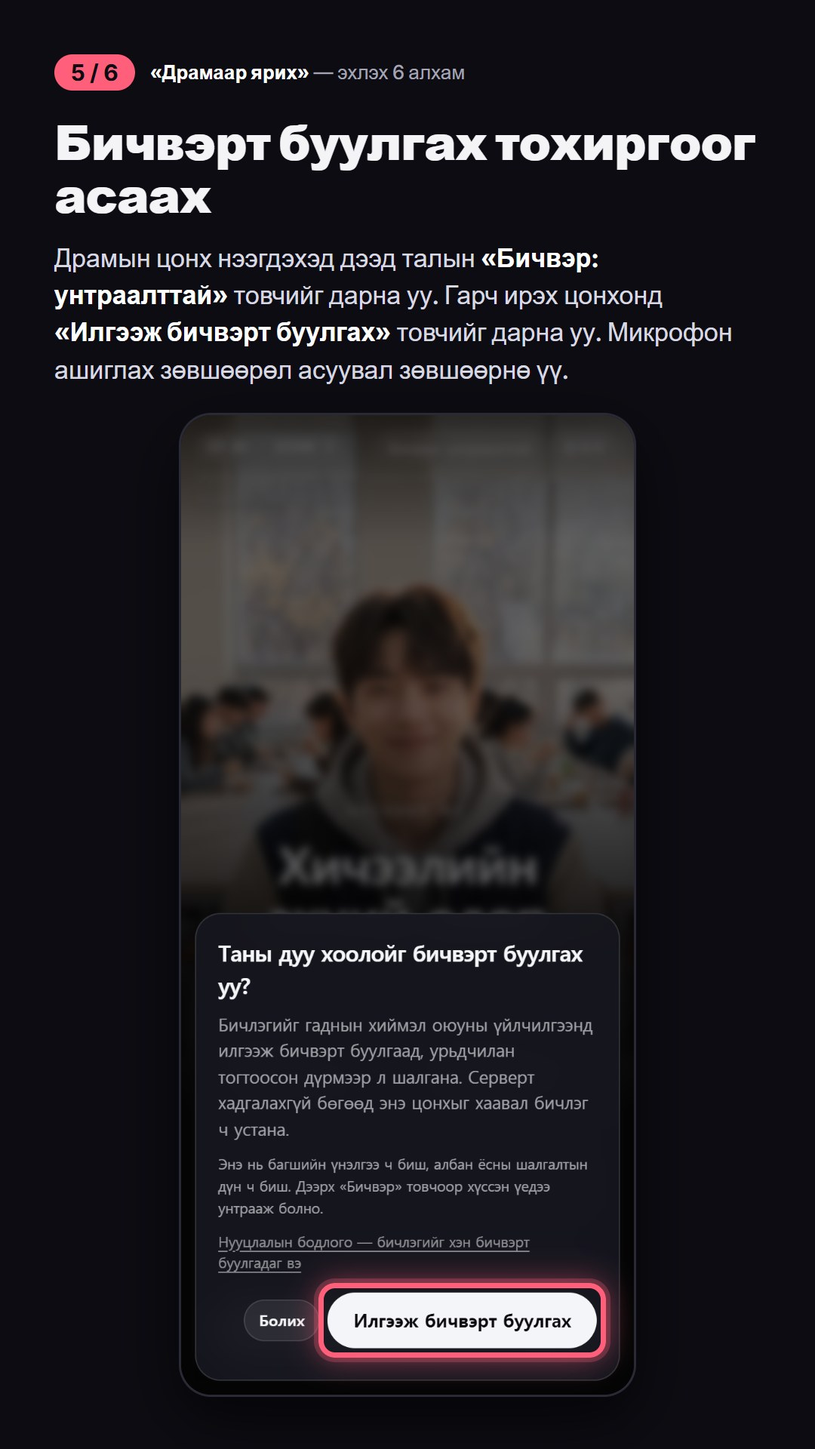
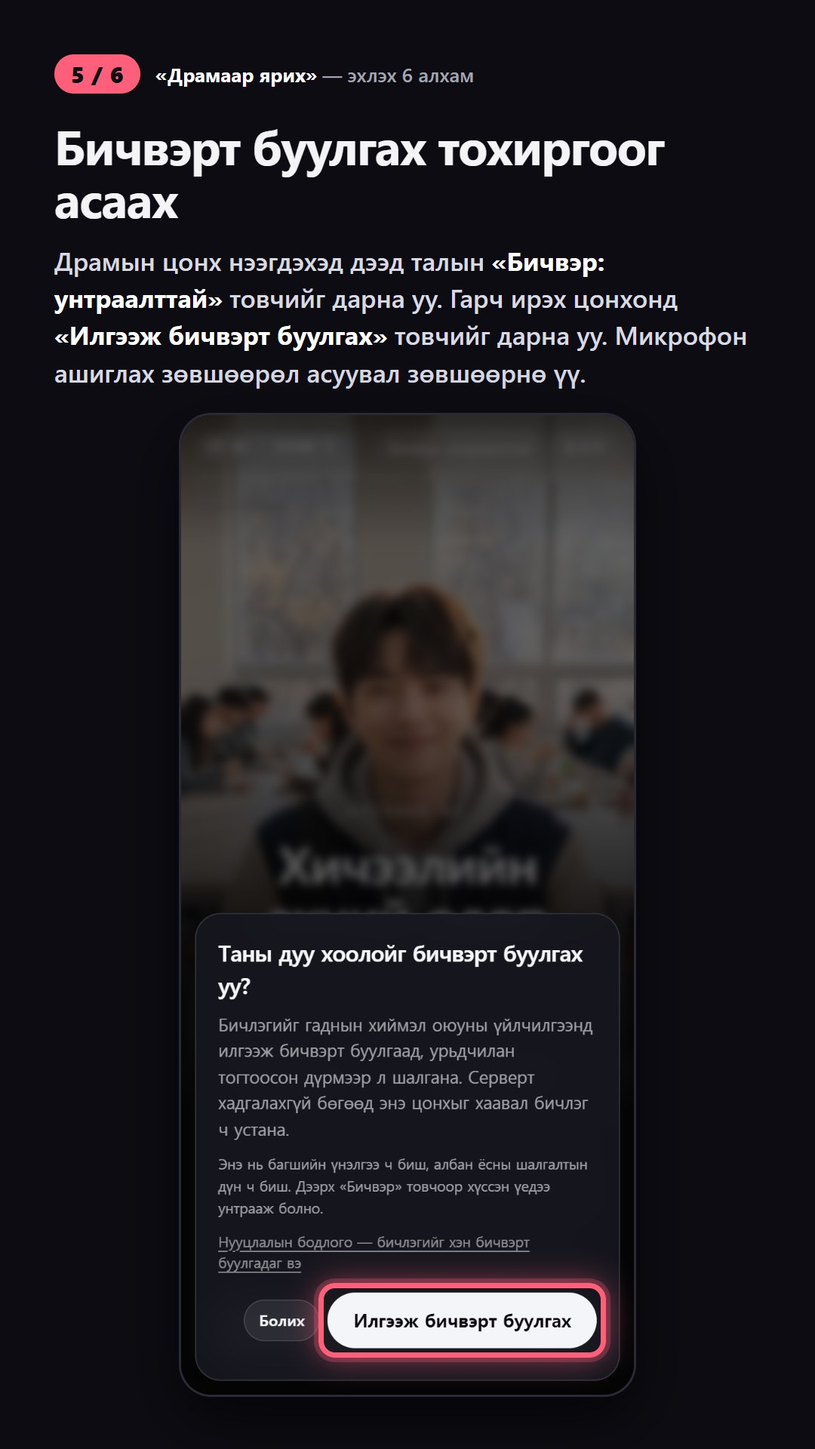
fix(드라마 말하기 · 몽골 시범 ⑥ 가입 안내 · ② 맞춤법 · 11-04): 공개본 · 리허설로 잰 실제 순서로 그림 여섯을 다시 씀 — 링크 ?drama=1&lang=mn(없으면 첫 화면 한국어), 튜터가 가입보다 먼저, 로그인 뒤 기록 옮기기 · 튜터 다시, 드라마 창이 저절로 열림, 보이는 단추 글 «Миний бүртгэл». 세 겹 확인 11판, 제목 글꼴 통일. 끄기 창 「Одоогоос」 재공개 synk-policy 47561faf(검수 drama-mn-spell-20261104 아르곤 0). 설계 §4 · §7 

Changed region(s): [[0.0611, 0.0312, 0.9167, 0.2812]]

diff --git a/docs/_ops/트랙.md b/docs/_ops/트랙.md
@@ -91,7 +91,7 @@ synk-town 운영은 11-01 실제 대조 v45 — 0555a4c7(싱크타운 첫 C4 후
 - **모두의창업 1R 기한 셋(10-22 사업 점검에서 §1로 모음, 유호님 손):** ① 10-25 AI 솔루션 취소 기한은 지나 MonoGPT Biz-Pro가 유지됐다(첫 로그인은 아래 「메일 전수조사」 줄). ② **11-30(월)** 1:1 책임멘토링 최소 2회 · 창업활동자금 카드 사용 마감(남은 돈은 사라짐, 같은 가맹점 하루 50만원 넘는 결제는 멘토기관 사전승인). ③ **12-01(화) 13:00** 활동보고서 · 1R 사업계획서(연장 없음). 규칙 · 서식은 저장소 밖 `Documents/메일정리/2026-10-19/모두의창업/점검표.md`, 한 것은 이 줄에서 지운다. [경과](보관/트랙_2026-11.md#t1102-58)
 - **모두의창업 1R 사업계획서(2R 진출평가 자료) — 받을 것 둘 · 매일 최신화(11-03~, 유호님 차례 · Claude):** 지금 판은 비공개 보관함 `SYNK-보관함/지원사업/모두의창업_1R_보고준비/사업계획서_2R_제출준비/사업계획서.md`(판 번호 · 날마다 바뀐 곳은 같은 폴더 `최신화_장부.md`). 11-03에 10-31 v5.1 위로 11-01~03 결정을 얹고(드라마 1화 WORLD 공개 · 꿈 갈래 · 제2의 나 · 팬사인회 상황극으로 멘토 조언 ③, 교원 · 원어민 검수자 계획을 빼고 2R 지원금을 다시 짬, 팀은 공동창업자 대신 교재 파트너 — [결정](결정.md) 11-03), 유호님 요청으로 Q2에 실제 앱 화면 그림 두 장(웹 앱 1화 네 화면 · K컬처 무대 세 화면)과 「쉽게, 재밌게」 · 개인화 엔진 Atlas 표를 넣었다(v6.5, 공식 판형 7.87/8쪽, 아르곤 76 · Fable 80 → 84 → 85/100, 새 P0 · P1 없음, 처리는 같은 폴더 `검수/`, 그림 다시 찍는 법은 README), 읽기 페이지 주소는 같은 폴더 README. 11-04: 플랫폼에서 등록 아이템명 · 닉네임을 읽어 표지에 넣고 지원서 원문과 대조(지원서는 마감 뒤 수정 불가, 프로필 글만 지금 방향으로 교체 — 유호님 「이대로 올려」), 경쟁 지도는 같은 폴더 `경쟁사조사/`. 앱 예약 `modoo-2r-plan-daily`(매일 22:40, 12-01 13:00까지)가 저장소 변화를 읽어 고치고 같은 폴더 `최신화_장부.md`에 남긴다(절차 README, 일요일 아르곤 채점 · 11-27 최종 검수). 받을 것(경력 · 기관명 · 팀 표기 · 닉네임 · 등록 아이템명은 닫힘, 약 70명 등록 화면은 전 직장 자료라 확인 불가 — 쓰지 않음 11-04): ① 교재 파트너 원고 상태(11월 안) ② 몽골 학습자 시범 승인 — Claude 판단은 「넣는 쪽」(10-31 · 11-03 검수마다 「제출본에 실제 학습자 0명」을 가장 큰 감점으로 봄, 준비안은 아래 「드라마 말하기 몽골 학습자 시범」 줄). 남은 일: 11월 결과로 칸 채우기 → 11-25~28 공식 양식 틀을 docx로 옮겨 Word로 쪽수 실측(양식이 docx 허용 · 한컴 없음) → 12-01 13:00 전 플랫폼 제출(유호님).
 - **드라마 말하기(모두의창업 K컬처) — 정할 것(10-29, 유호님 차례):** [기획 §11](../드라마말하기_기획.md#11-유호님이-정할-것) 가운데 손님 첫 장면 로그인 · 시범 대상과 [BM §9](../드라마말하기_BM.md#9-유호님이-정할-것) 일곱이 남았고 추천은 각 표에 있다(1화 네 목소리 · 실사 태오 그림은 10-30에 정함). 유호님 차례: [태오 선배 영상 시험](https://claude.ai/artifact/Q2Ka25prmUdGLyiEfw7tL8) 세 판 가운데 어느 얼굴로 갈지(Fable은 같은 태오 한 번 더 굽기 추천)와 고른 판의 720p(98크레딧) · 귀로 확인할 줄 둘(교수 5번 「여섯 시까지예요」 · 모범 1번 「새로 온」). 기획 원칙 1 수정 · 실존 인물 닮음 대조는 홈페이지 세션 몫. [경과](보관/트랙_2026-11.md#t1102-60)
-- **드라마 말하기 몽골 학습자 시범 — 유호님 차례 둘 · 모집 글 보내기(11-03~, 출발 11-09):** 12-01 사업계획서의 「실제 학습자 0명」을 메우는 성인 5~10명 시범 준비안([설계 · 문안](../드라마말하기_몽골시범_20261103.md), Fable 검수 반영). 모집 길 · 사례비 · 참여 안내는 11-03 승인. **⑦ 신청 양식 셋 게시 끝(11-04, 주소는 [설계 §7](../드라마말하기_몽골시범_20261103.md), 모집 글 §A에 들어 있음 — 유호님이 아는 분들께 보내면 된다).** 영상 통화 · 집계 읽기 · LAB 게시는 11-04 승인 — [인스타 게시 끝](https://www.instagram.com/synk.mn/p/DfTyCihoCV9/), 페이스북은 「페이스북 · 티스토리 로그인」이 풀린 뒤 같은 그림 · 캡션으로 건다(아직 안 걸림), 저녁 집계 예약 `drama-pilot-tally-202611`(11-09~24 22:30). 유호님 차례는 **받아 적기 크레딧 길(11-05까지 synk.yuh 「플랜 갱신」)** · 실기 한 바퀴 · 아는 분들께 모집 글 보내기. Claude 차례는 §7 기술 준비 여덟(테이크 2 기록 · 몽골어 화면 · 막힘 동안 B 막기 · 집계 도구 · 가입 그림 · 신청 양식 등, 11-04~08)과 11-09 12:00 출발 판정. **11-04 실제 계정 왕복(공개본):** 받아 적기 막힘 길은 통과(B 안 씀 · 동기화 synced · 실패 테이크는 하루 횟수를 안 깎음), 판정 · 노트 · 테이크 2 · 혼자 해 봄은 크레딧이 있어야 보이고 t9를 안 본 새 계정이 필요하다([설계 §7](../드라마말하기_몽골시범_20261103.md#c-card-check)). **11-04 기술 준비(Claude):** ① 테이크 2 판정 · 노트 종류 기록 · ④ 막힘 동안 B 남겨 두기는 공개 끝(synk-policy `e715070aa3`, 화면 검수 P0 · P1 0, 공개 바이트 같음 · 배포 점검 통과 — 실제 계정 왕복은 11-08 뒤), ⑤ 집계 도구 끝(`835cd4aa4`, 운영 실행은 §8 ⑦ 뒤), ② 몽골어 화면은 공개 끝(synk-policy `48c7245522`, 세 겹 확인 7판 · 화면 검수 `drama-mn-ui-20261104` → `-b` 아르곤 8(반영 8) · Fable 3(반영 3) · Fable 다시 0 — 실제 휴대폰 글꼴 폭은 ⑧에서), ③ 절차는 [설계 §7](../드라마말하기_몽골시범_20261103.md#c-card-check), ⑥ [가입 그림 여섯](../드라마말하기_몽골시범_가입안내/README.md) 끝(신청 양식 안에 넣음).
+- **드라마 말하기 몽골 학습자 시범 — 유호님 차례 둘 · 모집 글 보내기(11-03~, 출발 11-09):** 12-01 사업계획서의 「실제 학습자 0명」을 메우는 성인 5~10명 시범 준비안([설계 · 문안](../드라마말하기_몽골시범_20261103.md), Fable 검수 반영). 모집 길 · 사례비 · 참여 안내는 11-03 승인. **⑦ 신청 양식 셋 게시 끝(11-04, 주소는 [설계 §7](../드라마말하기_몽골시범_20261103.md), 모집 글 §A에 들어 있음 — 유호님이 아는 분들께 보내면 된다).** 영상 통화 · 집계 읽기 · LAB 게시는 11-04 승인 — [인스타 게시 끝](https://www.instagram.com/synk.mn/p/DfTyCihoCV9/), 페이스북은 「페이스북 · 티스토리 로그인」이 풀린 뒤 같은 그림 · 캡션으로 건다(아직 안 걸림), 저녁 집계 예약 `drama-pilot-tally-202611`(11-09~24 22:30). 유호님 차례는 **받아 적기 크레딧 길(11-05까지 synk.yuh 「플랜 갱신」)** · 실기 한 바퀴 · 아는 분들께 모집 글 보내기. Claude 차례는 §7 기술 준비 여덟(테이크 2 기록 · 몽골어 화면 · 막힘 동안 B 막기 · 집계 도구 · 가입 그림 · 신청 양식 등, 11-04~08)과 11-09 12:00 출발 판정. **11-04 실제 계정 왕복(공개본):** 받아 적기 막힘 길은 통과(B 안 씀 · 동기화 synced · 실패 테이크는 하루 횟수를 안 깎음), 판정 · 노트 · 테이크 2 · 혼자 해 봄은 크레딧이 있어야 보이고 t9를 안 본 새 계정이 필요하다([설계 §7](../드라마말하기_몽골시범_20261103.md#c-card-check)). **11-04 기술 준비(Claude):** ① 테이크 2 판정 · 노트 종류 기록 · ④ 막힘 동안 B 남겨 두기는 공개 끝(synk-policy `e715070aa3`, 화면 검수 P0 · P1 0, 공개 바이트 같음 · 배포 점검 통과 — 실제 계정 왕복은 11-08 뒤), ⑤ 집계 도구 끝(`835cd4aa4`, 운영 실행은 §8 ⑦ 뒤), ② 몽골어 화면은 공개 끝(synk-policy `48c7245522`, 세 겹 확인 7판 · 화면 검수 `drama-mn-ui-20261104` → `-b` 아르곤 8(반영 8) · Fable 3(반영 3) · Fable 다시 0 — 실제 휴대폰 글꼴 폭은 ⑧에서), ③ 절차는 [설계 §7](../드라마말하기_몽골시범_20261103.md#c-card-check), ⑥ [가입 그림 여섯](../드라마말하기_몽골시범_가입안내/README.md)은 실제 순서로 다시 씀(공개본 · 리허설로 잼) — **양식에 든 옛 그림 여섯 · 시작 링크를 새 판 · `?drama=1&lang=mn`으로 바꿀 일이 조율 세션에 남음.**
 - **실시간 음성 상황극 — 학생에게 열기 전 정할 것(10-30 · 11-02, 유호님 차례):** Gemini 유료 등급(무료 등급은 보낸 소리 · 글이 구글 학습에 쓰인다 — 돈이라 유호님)과 학생에게 여는 때. 시제품은 그냥 쓰시면 된다(`node experiences/realtime-roleplay/server.mjs` → http://127.0.0.1:5250, 이 노트북은 스피커로 해도 하온이 제 소리에 끊기지 않는다). 11-02 붙인 「Zoe 목소리로 말 걸기」에서 남은 것(유호님 「나중에 할게」): 진짜 마이크 한 판 · 녹음에 없는 차례(12%)도 Zoe로 할지(일레븐 API 가입 — 유호님) · 작별 되풀이 고치기와 4판을 할지. 결과는 [README](../../experiences/realtime-roleplay/README.md) · §3 같은 이름 줄과 「실시간 상황극 답 은행」 줄.
 - **K-Startup 심화상담 답 확인(10-14 보냄, 10-22까지 확인 기록 없음):** 세무 자문은 보완 요청, 법률 자문은 재협의 요청을 10-14에 보냈다. 「심화상담」 화면에서 답을 보고, 세무는 보완 답을 읽은 뒤 「자문서 승인」을, 법률은 수정 약정이 오면 동의 여부를 정한다(단추는 유호님 말 뒤). 보낸 원문은 저장소 밖 `Documents/메일정리/2026-10-14/`.
 - **LAB 「달리며 건너뛰는 한국」 — 시댄스는 포트폴리오 콘티가 다 끝난 뒤 한꺼번에(10-26):** 이 릴스 꾸러미(첫 차례 36판)와 PULSE 확정 6편 통합 순서표는 준비가 끝났고, 11-02 하루권 결제 뒤 PULSE 순서표부터 굽기가 시작됐다(위 「PULSE 시댄스 굽기 시작」 줄). 남은 일: 무제한 창 안에서 이 LAB 36판을 내고(웹 · 한 번에 하나, 무제한은 자동화 금지), 7번 숏드라마 · 시즌1 옆집은 콘티가 끝난 뒤 둘째 날. Claude는 모든 편의 판 수와 무제한 · 크레딧 나눔을 숫자로 정리해 드린다. [굽기 시트](../마케팅/LAB_달리며건너뛰는한국_20261021/영상_굽기시트_시댄스25.md). [경과](보관/트랙_2026-11.md#t1102-63)

diff --git a/docs/드라마말하기_몽골시범_20261103.md b/docs/드라마말하기_몽골시범_20261103.md
@@ -44,7 +44,7 @@
 **1일차(11-09~11-13 가운데 편한 날, 약 20분)**
 
 1. 신청 양식에서 [참여 안내](#b-참여-안내와-동의)를 읽고 동의하고, SYNK ID에 쓸 이메일을 적는다. 양식 안에 가입 그림 여섯 장이 있고, 제출하면 시작 주소와 1일차 설문 링크가 뜬다. 참가 번호는 받지 않는다 — 설문은 SYNK ID 이메일로 잇고, 번호표(§6)는 응답을 받은 뒤 Claude가 비공개 보관함에서 만든다(구글 설문은 번호를 저절로 매기지 못한다).
-2. 크롬이나 사파리로 `synk.im/world/?drama=1`을 연다. 가입 → 메일 확인 → 튜터 고르기 → 「나」에서 학습 기록 동의 켜기 → 드라마 → 받아쓰기 안내에서 「보내고 받아 적기」 → 마이크 허용. 가입 화면은 한국어뿐이라 몽골어 단계 그림 여섯 장을 함께 준다(§7 ⑥).
+2. 크롬이나 사파리로 `synk.im/world/?drama=1&lang=mn`을 연다(`lang=mn`이 없으면 첫 화면이 한국어다). 언어 · 한글 물음 → 튜터 고르기 → 가입 → 메일 확인 → 링크 다시 · 로그인 → 기록 옮기기 · 튜터 다시 → 드라마가 열리면 닫고 「나」에서 학습 기록 동의 켜기 → 링크 다시 → 받아쓰기 안내에서 「보내고 받아 적기」 → 마이크 허용(11-04 공개본 · 리허설로 잰 실제 순서). 가입 화면은 한국어뿐이라 몽골어 단계 그림 여섯 장을 함께 준다(§7 ⑥).
 3. 1화 한 장면(A) → 코치 노트 → 테이크 2 → 새 상황(B).
 4. [설문](#c-설문) 5분.
 
@@ -52,7 +52,7 @@
 
 **8일째(7~10일 창, 5분):** 사람마다 1일차 시각에서 셈해 알림을 한 통 보낸다 → 같은 계정 첫 화면의 「또 다른 장소」 카드(C)를 한 번 → 설문 세 문항. 늦거나 안 오면 0으로 채우지 않고 따로 센다(기획 3-5). 6일째에 보내면 카드가 아직 안 떠서 연락 한 번을 버린다.
 
-**선택:** 원하는 3명과 15분 영상 통화(11-17~22, 유호님 또는 Claude가 준비한 질문지로, 녹화하지 않음). 반응과 인용을 얻는 자리이고 판정 숫자에는 섞지 않는다.
+**선택:** 원하는 3명과 15분 영상 통화(11-17~22, 유호님이 직접 · 질문지는 Claude, 녹화하지 않음). 반응과 인용을 얻는 자리이고 판정 숫자에는 섞지 않는다.
 
 ## 5. 잴 것과 출처
 
@@ -80,11 +80,11 @@
 | | 지금 | 할 일 | 못 되면 |
 |---|---|---|---|
 | ① 테이크 2 기록 | **공개 끝(11-04):** 테이크마다 판정 갈래(시도의 `choice` — pass · note-ending/length/missing · hold · unclear)와 장면 뒤 코치 노트(그 줄 보임의 도움 `explanation`)를 남긴다. 장면 · 테이크 2는 그대로 판정 없음, 받아 적은 글 · 빠진 낱말은 안 남김. 기록 꼴은 그대로 — 부모 WORLD 계정 묶음(원천 · 11-03 공개본) 동기화 synced, 옛 판 대조는 STORAGE_ERROR([기록](../experiences/drama/qa/학습기록-20261102/README.md#11-03)). master `f32c3846cd` · synk-policy `e715070aa3`(유호님 「일단 추가해봐」), 공개 바이트 같음 · 배포 점검 통과. 실제 계정 왕복은 받아 적기가 돌아온 11-08 뒤(③ 절차) | 테이크 2 판정과 받은 노트 종류를 같은 학습 기록에 남긴다(받아 적은 글 · 소리는 그대로 안 남김). 학습 기록 꼴을 바꾸는 일이라 11-02 공개본 저장 오류 회귀와 같은 시험을 다시 돌린다 | (가)를 설문 7번 자기 보고로만 적고 그렇게 표기한다 |
-| ② 몽골어 화면 | **공개 끝(11-04):** 화면 글 174키 · 대사 뜻 · B · C 카드 몽골어, WORLD에서 고른 언어(`synk.world.lang`)를 따르고 몽골 학습자는 한국어 보기에서도 뜻이 몽골어. 세 겹 확인 7판([기록](../experiences/drama/qa/몽골어-20261103/README.md)). 화면 검수 아르곤 8(반영 8) · Fable 3(반영 3) · Fable 다시 0, synk-policy `48c7245522`. 안드로이드 · 아이폰 실제 글꼴 폭은 ⑧에서 본다 | 몽골어를 더하고 WORLD에서 고른 언어를 따른다. 현지어 세 겹 확인(역번역 → Fable → 아르곤) | 출발은 막지 않는다 — 영어 판과 몽골어 그림 안내로 출발하고 설문에서 화면 언어를 묻는다 |
+| ② 몽골어 화면 | **공개 끝(11-04):** 화면 글 174키 · 대사 뜻 · B · C 카드 몽골어, WORLD에서 고른 언어(`synk.world.lang`)를 따르고 몽골 학습자는 한국어 보기에서도 뜻이 몽골어. 세 겹 확인 7판([기록](../experiences/drama/qa/몽골어-20261103/README.md)). 화면 검수 아르곤 8(반영 8) · Fable 3(반영 3) · Fable 다시 0, synk-policy `48c7245522`(맞춤법 한 낱말 `47561faf` — 아르곤 0). 안드로이드 · 아이폰 실제 글꼴 폭은 ⑧에서 본다 | 몽골어를 더하고 WORLD에서 고른 언어를 따른다. 현지어 세 겹 확인(역번역 → Fable → 아르곤) | 출발은 막지 않는다 — 영어 판과 몽골어 그림 안내로 출발하고 설문에서 화면 언어를 묻는다 |
 | ③ 8일 뒤 C | 이미 공개돼 있다 — B 판정 7~10일 뒤 그 계정 첫 화면에 「또 다른 장소」 카드. 실제 계정에서는 아직 안 봤다. 확인 절차는 아래 [③ C 카드 실계정 확인 절차](#c-card-check) | 11-08 뒤 대표 계정으로 B를 한 번 하고, 7일 뒤 카드가 뜨는지 본다(참가자보다 며칠 앞선다) | 참가자 첫 사람의 C가 첫 실측이 된다 — 그 사실을 적는다 |
 | ④ 받아 적기 막힘 | **공개 끝(11-04):** B는 받아 적기까지 간 테이크가 올 때만 기록(서버 사정 · 꺼짐 · 오늘 횟수 끝으로는 안 씀). 받아쓰기를 못 쓰면 B 앞에서 「…남겨 둘게요」 · 다시 확인 · 나중에 다시, 장면을 끝낸 계정 첫 화면에 B 카드. 화면 검수 아르곤 5 · Fable 4 · Fable 다시 1(P0 · P1 0). master `f32c3846cd` · synk-policy `e715070aa3` | 받아 적기가 막힌 동안에는 B를 열지 않고 「나중에 다시」로 둔다(B를 소모하지 않음) | 출발 판정(§9)으로 링크를 안 보낸다 |
 | ⑤ 집계 | **끝(11-03):** `node tools/드라마시범집계.mjs --참가 <목록> [--기준 <시각>]` — 참가 계정만 `begin read only`로 읽어 §1 분모 줄 숫자와 참가 번호별 한 줄만 낸다(이메일 · 계정 id 없음). 합성 자료 시험 7개(master `835cd4aa4`). 운영 읽기는 §8 ⑦ 승인(11-04)대로 `--관리`(관리 API `read_only` 질의, 접속 주소 불필요) | 연결표의 참가 계정만 읽어 §1 분모 줄 숫자만 내는 읽기 전용 집계 도구. 11-09~11-24 매일 저녁 돌린다 | 손으로 계정별 확인 |
-| ⑥ 가입 안내 | **끝(11-04):** [그림 여섯 · 설명 글](드라마말하기_몽골시범_가입안내/README.md) — 로컬 리허설 캡처(운영 계정 없음 · 실존 개인정보 없음), 세 겹 확인 끝. 조율 세션이 ⑦ 신청 양식에 넣는다 | 몽골어 단계 그림 여섯 장(가입 → 메일 확인 → 튜터 고르기 → 학습 기록 동의 → 받아쓰기 안내 「보내고 받아 적기」 → 장면 시작) | — |
+| ⑥ 가입 안내 | **끝(11-04):** [그림 여섯 · 설명 글](드라마말하기_몽골시범_가입안내/README.md) — 로컬 리허설 캡처(운영 계정 없음 · 실존 개인정보 없음), 공개본으로 잰 실제 순서, 세 겹 확인 끝. **⑦ 신청 양식에 든 옛 그림 여섯과 시작 링크를 이 판으로 바꿔야 한다(조율 세션 차례) — 링크는 `?drama=1&lang=mn`** | 몽골어 단계 그림 여섯 장(튜터 고르기 → 가입 → 메일 확인 → 학습 기록 동의 → 받아쓰기 안내 「보내고 받아 적기」 → 장면 시작) | — |
 | ⑦ 신청 양식 | **끝(11-04):** founder 워크스페이스 구글 설문 셋, 로그인 없이 열림 — [신청 · 동의](https://docs.google.com/forms/d/e/1FAIpQLSeqDI-LOHgKCxMWSG6t08O-QmKvth_rg6Y4y4PK_FAVrUSGdA/viewform) · [1일차 설문](https://docs.google.com/forms/d/e/1FAIpQLSegjDfosR67JiyKXUmuUJhCerkzvlgD7tmN-ch2vbFaIDKR5w/viewform) · [8일째 설문](https://docs.google.com/forms/d/e/1FAIpQLSdvRc_GJJ6HLdG3mJN18OTJg128mBMkdrAUgXiEkhblP9p3ew/viewform). 신청 양식은 안내(몽 · 한) · 이메일 · 동의 다섯 · 가입 그림 여섯 · 제출 뒤 시작 안내. 공개 양식 구조를 질문마다 대조했고 시험 제출 한 건으로 제출 뒤 화면까지 본 뒤 그 응답은 지웠다 | — |
 | ⑧ 실기 한 바퀴 | 실제 휴대폰 · 실제 마이크로 가입부터 B까지 돌린 적이 없다 | 11-07~08 아이폰 사파리 · 안드로이드 크롬 각 한 대로 새 계정 가입부터 B까지(대표 휴대폰 20분 또는 아는 사람 한 명 — 참가자 수에서 뺌) | 첫 참가자 날을 실기 확인으로 삼고 그날 고친다 |
 
@@ -124,7 +124,7 @@
 | **11-09 12:00** | **출발 판정:** 실제 계정에서 B 첫 판정이 서버에 남는 것을 보면 링크를 보낸다. 안 보이면 보내지 않고 1일차를 11-11~15로 민다(C 11-18~25, 집계 11-26, 칸 채움 11-27~29) | Claude |
 | 11-09~13 | 1일차, 매일 저녁 집계 | 참가자 · Claude |
 | 11-16~23 | 8일째 알림 → C(7~10일 창) | 참가자 · Claude(알림) |
-| 11-17~22 | 선택 영상 통화 | 유호님 또는 Claude |
+| 11-17~22 | 선택 영상 통화 | 유호님(질문지는 Claude) |
 | 11-24 | 집계 마감 | Claude |
 | 11-25~28 | 사업계획서 칸 채움 → 아르곤 → Fable → 캡처 | Claude |
 | 12-01 13:00 전 | 제출 | 유호님 |

diff --git a/docs/드라마말하기_몽골시범_가입안내/README.md b/docs/드라마말하기_몽골시범_가입안내/README.md
@@ -1,15 +1,17 @@
 # 몽골 시범 가입 안내 그림 여섯 장
 
-[몽골 시범 설계](../드라마말하기_몽골시범_20261103.md) §4 · §7 ⑥. 신청 양식(§7 ⑦)에 차례대로 넣는다. SYNK ID 가입 화면이 한국어뿐이라 그림과 몽골어 설명으로 안내한다. 1080×1920 JPEG, 휴대폰에서 세로로 본다. 몽골어 원문과 짝 한국어는 [설명글.json](설명글.json).
+[몽골 시범 설계](../드라마말하기_몽골시범_20261103.md) §4 · §7 ⑥. 신청 양식(§7 ⑦)에 차례대로 넣는다. 가입 화면이 한국어뿐이라 그림과 몽골어 설명으로 안내한다. 1080×1920 JPEG, 휴대폰에서 세로로 본다. 몽골어 원문과 짝 한국어는 [설명글.json](설명글.json).
 
 | 장 | 그림 | 누를 곳 |
 |---|---|---|
-| 1 SYNK ID 만들기 | [1-signup.jpg](1-signup.jpg) | 확인란 둘(점선) · 「이메일로 가입」 |
-| 2 메일 확인 | [2-check-mail.jpg](2-check-mail.jpg) | 화면 안내(점선) — 누를 단추는 메일 안에 있다 |
-| 3 튜터 고르기 | [3-tutor.jpg](3-tutor.jpg) | 「Монгль багштай сурах」 자리(고른 튜터 이름이 들어간다) |
-| 4 학습 기록 저장 켜기 | [4-me-learning.jpg](4-me-learning.jpg) | 스위치 줄 |
-| 5 받아쓰기 켜기 | [5-consent.jpg](5-consent.jpg) | 「Илгээж бичвэрт буулгах」 |
+| 1 시작 · 튜터 고르기 | [1-tutor.jpg](1-tutor.jpg) | 링크 → 「CLICK TO START」 → 「Монгол」 · 「Үргэлжлүүлэх」 → 한글 물음 → 튜터 → 검은 단추 |
+| 2 SYNK ID 만들기 | [2-signup.jpg](2-signup.jpg) | 「SYNK ID-гаар нэвтрэх」 → 「이메일로 가입하기」 → 확인란 둘(점선) · 「이메일로 가입」 |
+| 3 메일 확인 | [3-check-mail.jpg](3-check-mail.jpg) | 메일 안 단추 → 링크 다시 · 로그인 → 기록 옮기기 「Шилжүүлэх」 → 튜터를 또 물으면 앞서 고른 튜터 |
+| 4 학습 기록 저장 켜기 | [4-me-learning.jpg](4-me-learning.jpg) | 드라마 창이 저절로 열리면 오른쪽 위 × → 왼쪽 위 「Миний бүртгэл」 → 스위치 줄 → 링크 다시 |
+| 5 받아쓰기 켜기 | [5-consent.jpg](5-consent.jpg) | 칩 「Бичвэр: унтраалттай」 → 「Илгээж бичвэрт буулгах」 |
 | 6 장면 시작 | [6-scene-start.jpg](6-scene-start.jpg) | 「Үзэгдлийг эхлүүлэх」 |
+
+**링크는 `synk.im/world/?drama=1&lang=mn`이다.** `lang=mn` 없이 열면 몽골어 기기에서도 첫 화면이 한국어로 뜬다(공개본에서 `mn-MN` 브라우저로 잼, 11-04). 그림 순서는 공개본 · 로컬 리허설로 잰 실제 순서다 — 로그인 전에 튜터를 먼저 고르고, 로그인하면 기록 옮기기 창과 튜터 고르기가 한 번 더 나온다.
 
 ## 어떻게 찍었나
 
@@ -29,4 +31,5 @@
 | 2판 | Fable 교정(캡처 · 단추 이름 대조) | P1 0 · P2 2 · P3 4, 단추 이름 · 위치 모두 맞음 | 3판 |
 | 3판 | 아르곤 문법(구독 통로 `gemini-4-argon` high, `몽골어대조.js`가 빈 답이라 스키마 없이) | 어색 — 「ижил имэйлээрээ」 · 「…хадгалахыг асаах」 · 「Имэйл хайрцгаа」 등 | 4판 |
 | 4판(바뀐 네 줄) | 아르곤 문법(같은 길) · 맞춤법 자 | 어색 — 마지막 줄 연결 「дуусаад」 · 「үгээ」, 맞춤법은 외래어 · 이름(имэйл · спам · Тэо)만 사전 밖 | 5판 — 문법 층은 여기서 닫는다. 같은 채점이 짚은 「курсийн」은 앱 화면 낱말과 맞춰 그대로 둔다 |
-| 7판(지금) · 4번에 두 문장 더함 | `?drama=1`은 튜터를 고르면 드라마를 바로 열 수 있어 「드라마가 먼저 열리면 ×로 닫고 이 단계를 하고 링크를 다시 연다」를 더함 — Opus 직역 그대로 · Fable P2 1 · P3 1(반영) · 아르곤 어색 1(「Драм」 → 「Драмын цонх」, 5번도 같이) | 드라마 겉창의 ×는 원천 `#panel-close`로 확인했다. 그림 위 실제 모습은 §7 ⑧ 실기 한 바퀴에서 본다 |
+| 7판 · 4번에 두 문장 더함 | `?drama=1`은 튜터를 고르면 드라마를 바로 열 수 있어 「드라마가 먼저 열리면 ×로 닫고 이 단계를 하고 링크를 다시 연다」를 더함 — Opus 직역 그대로 · Fable P2 1 · P3 1(반영) · 아르곤 어색 1(「Драм」 → 「Драмын цонх」, 5번도 같이) | 8판 |
+| 8 · 9판 · 실제 순서로 다시 씀 | 리허설에서 설명과 어긋남 셋을 찾음 — 화면에 보이는 단추 글은 «Миний бүртгэл»(앞 판 «Миний бүртгэлийг нээх»은 안 보이는 이름) · 튜터가 가입보다 먼저 · 로그인 뒤 기록 옮기기 창. 앞 네 장 설명을 다시 씀 — Opus 직역(옮기는 것이 무엇인지 · 「хаана уу」 겹침) · Fable 교정(단추 이름을 캡처와 대조, P1 · P2 0) · 아르곤 문법(`몽골어대조.js --구독`, 「сонгохыг асуувал」 · 「Аль … ч」 고침, 맞춤법은 외래어만 사전 밖) | 11판(지금) — 튜터 설명 끝의 「драм」(연극으로 읽힘)을 「хичээл」로 바꾼 한 낱말은 재채점하지 않았다 |

diff --git a/experiences/drama/qa/몽골어-20261103/README.md b/experiences/drama/qa/몽골어-20261103/README.md
@@ -10,7 +10,7 @@
 | 3판 | 3층 | 정상 1 · 어색 12 · 파손 1(뜻 글 속 「선배님-ийн」) · 통로 실패 3 | 4판: 「бичвэрт буулгах」는 동사로(명사 짜임 「…буулгалт」 뺌), 「нөхцөл」 → 「нөхцөл байдал」, 장면은 「тоглох」, 단추를 가리킬 때 «…» 「товчийг」, 「…-аас өөр」, 2인칭 권유형, 한글 뒤 몽골어 꼬리 없앰 |
 | 4판 | 3층 | 정상 1 · 어색 11 · 파손 1 · 통로 실패 3 | 5판: 동사 없는 단추 글에 동사(「Эхнээс нь дахин эхлэх」 등) · 「тэр нь」 지시 · 「дутуу дууссан」 등 |
 | 5판(11-04) | 3층 — 4판에서 바뀐 18줄 + 통로 실패 묶음(36줄), 12줄 묶음 5개 | 어색 3묶음 · 통로 실패 2묶음 | 6판: 모범 소리 「жишээ дуу」(노래로 읽힘) → 「жишээ бичлэг」, 「Энэ дубльд …」 → 「Энэ удаад …」, 한글 낱말 따옴표 「」 → «», 새 상황 안내 끝 문장 연결(「хэлж үзэх эсвэл」), 「дасгалаар」 → 「дасгалд」, B 카드 「нэг тэнхимийн өөр нэг」 꼬임 → 「тэнхимийнхээ ахлах курсийн өөр нэг」 · 「мэндчилсэн」 → 「танилцсан」, 뜻 글 「аваад өгөөрэй」 → 「авч өгөөрэй」 · 「клубуудын」 → 「клубүүдийн」(아르곤 두 번 · 다른 세션 강의 검수도 같은 지적) |
-| 6판(11-04) | 3층 — 고친 8줄 + 통로 실패 2묶음 | `몽골어대조.js --구독`이 문법 층(구조화 답)에서 「agy가 빈 답」을 거듭 냄(같은 묶음 3~4번) → 같은 아르곤 high · 같은 문법 지시를 스키마 없이 부름(`부르기`, 맞춤법은 같은 자): 세 묶음 모두 어색 | 7판(지금 원천): 받아쓰기 안내 「гадны … үйлчилгээ рүү」 → 「гаднын … үйлчилгээнд」, 첫 화면 「түрүүлж үг хэлнэ」(연설 어감) → 「түрүүлж яриа эхлүүлнэ」, 끄기 창 제목 「Бичвэрт буулгах үйлчилгээг унтраах уу?」 · 본문 「Одооноос эхлэн …」 · 「Бичлэг илгээх явц ч зогсоно」(아르곤 다음 회차 지적 반영), 연습 실마리 「асуултаа өөрөөр тавих эсвэл …」, 다음 화 예고의 「Клубүүдийн」도 같은 철자로 |
+| 6판(11-04) | 3층 — 고친 8줄 + 통로 실패 2묶음 | `몽골어대조.js --구독`이 문법 층(구조화 답)에서 「agy가 빈 답」을 거듭 냄(같은 묶음 3~4번) → 같은 아르곤 high · 같은 문법 지시를 스키마 없이 부름(`부르기`, 맞춤법은 같은 자): 세 묶음 모두 어색 | 7판(지금 원천): 받아쓰기 안내 「гадны … үйлчилгээ рүү」 → 「гаднын … үйлчилгээнд」, 첫 화면 「түрүүлж үг хэлнэ」(연설 어감) → 「түрүүлж яриа эхлүүлнэ」, 끄기 창 제목 「Бичвэрт буулгах үйлчилгээг унтраах уу?」 · 본문 「Одооноос эхлэн …」 · 「Бичлэг илгээх явц ч зогсоно」(아르곤 다음 회차 지적 반영). 끝 확인(`몽골어대조.js --구독`)은 문법 **정상**, 맞춤법 자가 「Одооноос」를 짚어 「Одоогоос эхлэн」으로 되돌림(재공개), 연습 실마리 「асуултаа өөрөөр тавих эсвэл …」, 다음 화 예고의 「Клубүүдийн」도 같은 철자로 |
 
 **일부러 남긴 것:** ① 「Драмаар ярих」 — 제품 이름이고 유호님이 승인한 참여 안내(설계 §B)와 같다. ② 뜻 글 속 「«선배» · «선배님»」 — 두 말의 차이가 1화에서 배우는 것이라 한글 그대로 따옴표 안에 둔다(문법 층은 「파손」으로 본다). ③ 「Дубль」 — 맞춤법 사전에 없는 외래어(화면 말 「테이크 2」). ④ 6판 문법 층이 함께 짚은 「Зүгээр дээ, юу ч биш」(「에이, 뭘요」의 뜻 글 — 입말 그대로) · B 카드의 「өөр нэг оюутнаас」(「다른 선배」가 과제) · 단추 이름 «Өөр үгээр дахиад нэг»(화면 단추 글 그대로).
 

diff --git a/docs/현장노트/AI_CLI.md b/docs/현장노트/AI_CLI.md
@@ -217,6 +217,7 @@
 
 - 10-31 덧붙임(GPT): `다시`·`--끝판` 묶음을 Claude CLI의 `--json-schema`로 읽힐 때는 `검수묶음.mjs`의 `다시답꼴`을 쓴다. 처음 검수의 `답꼴`에는 `targets`가 없어, 지적이 0건이어도 가져올 때 `targets schema 오류`로 거절된다. 다시 볼 대상이 실제 0개였던 이번 답은 다른 내용 없이 `targets: []`만 보완해 입력 SHA·끝 표식·전체 읽음·사슬을 다시 대조했다. 대상이 있으면 검수자가 그 대상별 답을 내야 한다.
 - 11-04 덧붙임(Claude): 앞 고리에 반영한 P0 · P1이 없어 「다시 볼 지적 0건」인 `다시 --함께올림`이면, 배경에 고친 지적을 적어 두었어도 답의 `targets`는 빈 배열이어야 한다 — Fable이 그 지적을 Q1~Q3로 답하자 `페이블받기`가 「targets가 다시 볼 지적 집합과 다르다」로 거절했다. `targets: []`로 맞추고 풀림 내용은 `coverage.reviewed`로 옮겨 입력 SHA · 끝 표식 대조를 그대로 통과시켰다(`drama-mn-ui-20261104-b`). 이런 판의 fable 지시에는 「targets는 비운다」를 함께 적는다.
+- 11-04 덧붙임(Claude): 한 번 공개한 사슬의 끝에 `다시`를 이어 다음 공개에 쓰면 「검수가 견준 앞 공개본이 지금 공개본과 다르다」로 멈춘다 — 공개 뒤의 고침은 지금 공개본 위 `--후보폴더`로 새 이름 `준비`부터(글 한 낱말이면 `--페이블생략`, `drama-mn-spell-20261104` 10KB · 아르곤 0건). 처음 시도는 출력을 `tail`로 잘라 맨 위 `[멈춤]` 줄을 놓쳤다 — 공개 출력은 파일로 받아 머리부터 본다.
 - 11-03 덧붙임(Claude): 아르곤 지적을 고치며 공개 후보를 새 폴더로 다시 만든 뒤 `페이블 <이름> --배포후보 <새 폴더>`를 주면 오류 없이 지나가지만 그 옵션은 듣지 않는다(`페이블하기`는 받지 않는다). Fable은 옛 후보와 새 원천을 함께 보고 「후보에 고침이 빠졌다」를 P2로 낸다. 그 판 Fable 답을 받은 뒤 `다시 <새 이름> --앞 <이름> --배포후보 <새 폴더>`로 바뀐 후보만 같은 Fable에 보이면 사슬이 이어진다(`lab도구-nombre-rl-20261103` → `-b`). 아르곤 지적을 고칠 일이 있으면 처음부터 후보가 바뀐다고 보고 이 순서로 간다.
 
 ### 긴 검수 배경이 모든 묶음에 반복된다 — 짧은 배경과 전체 상세를 나눠 준비한다 (2026-10-28 GPT)
